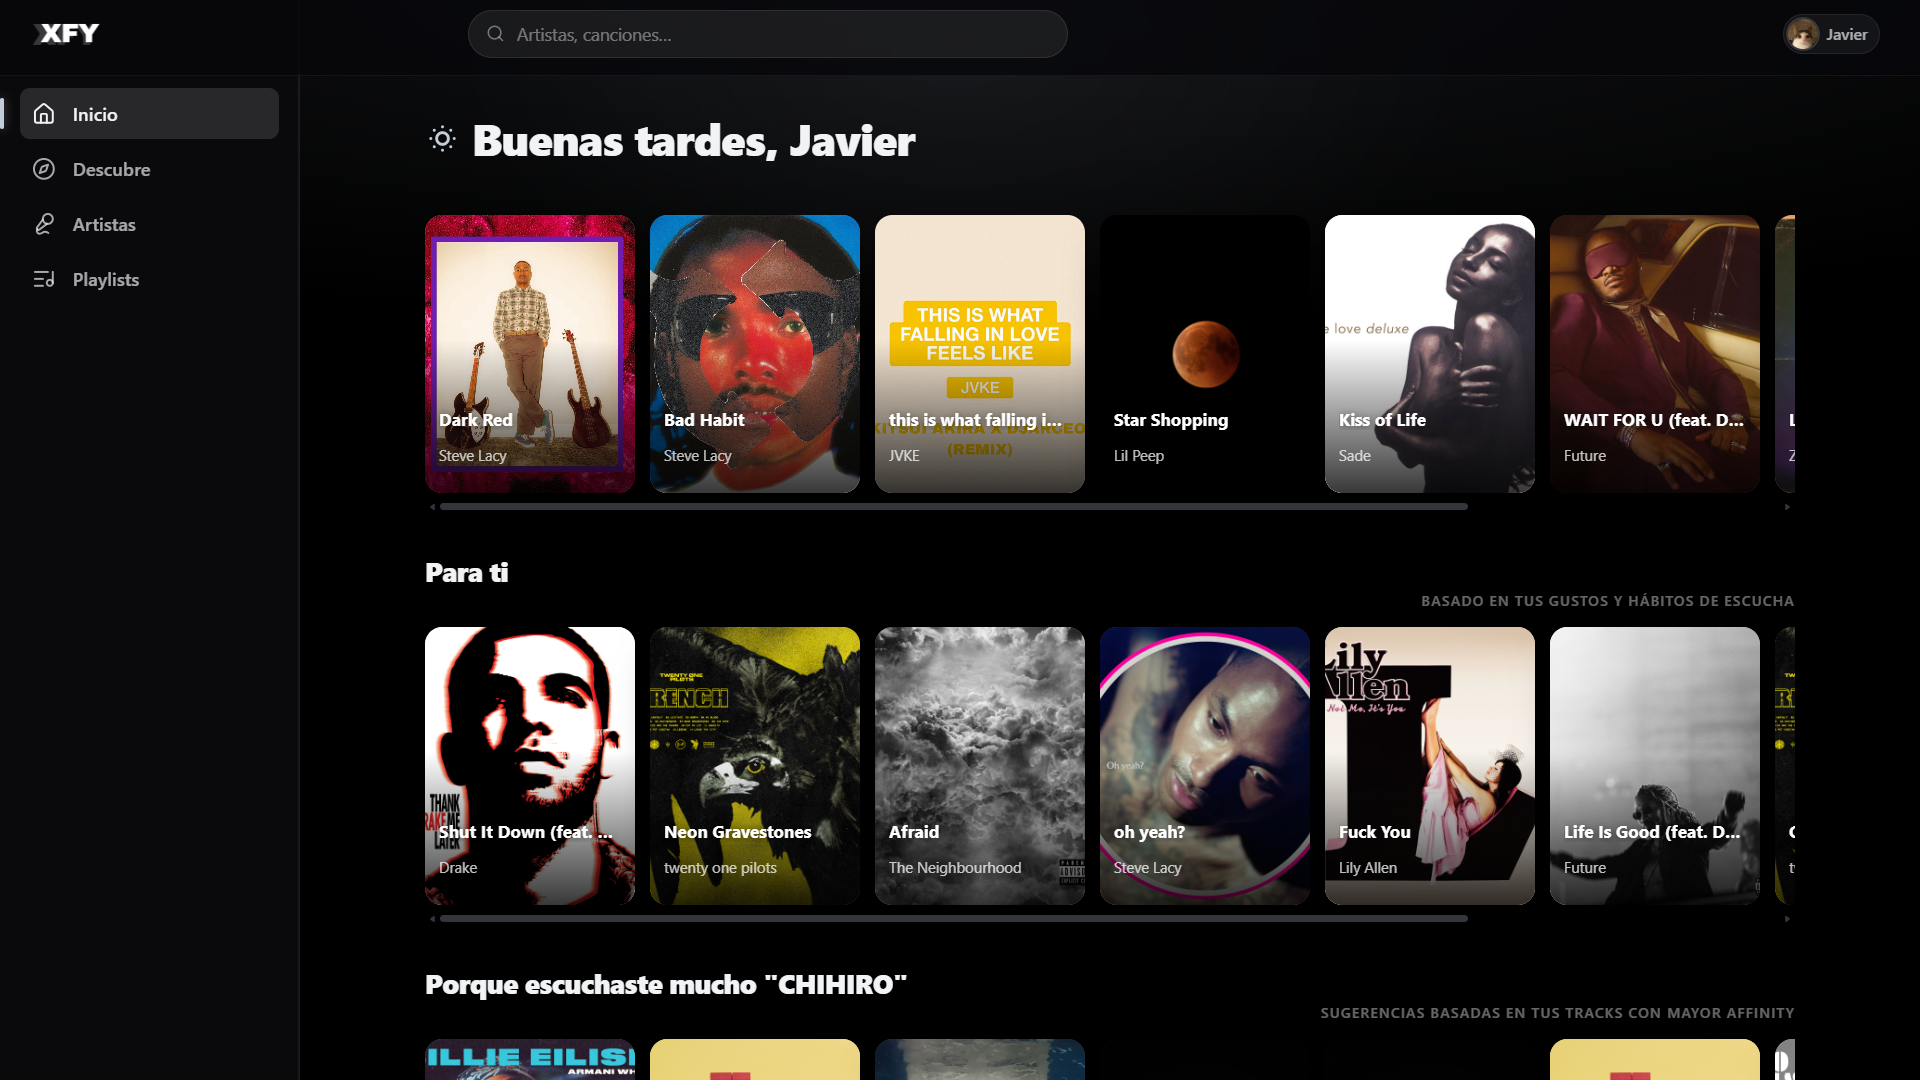
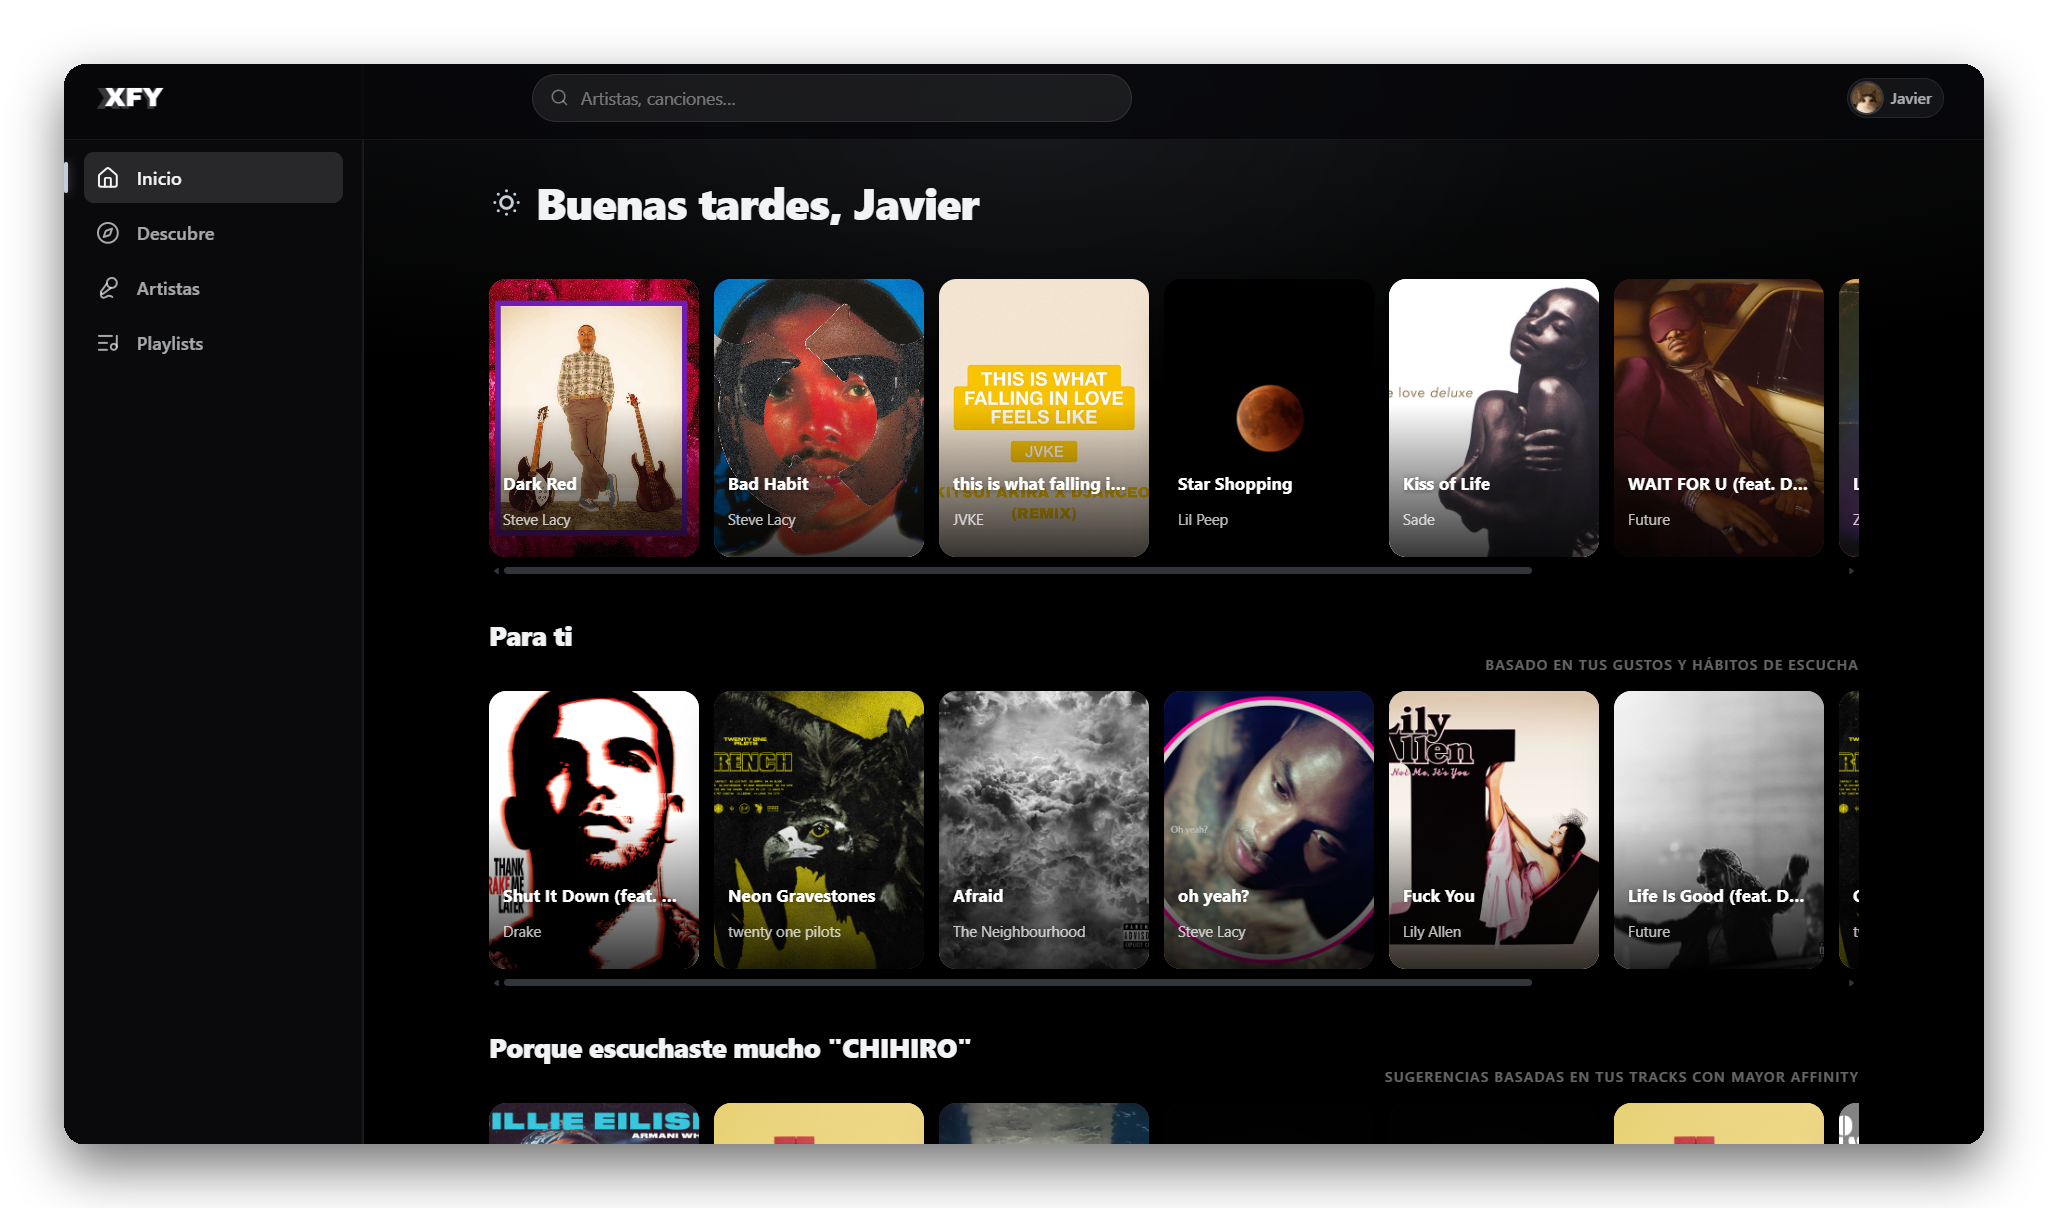
docs: pulir capturas (recorte, esquinas redondeadas, sombra) y layout lado a lado

diff --git a/README.md b/README.md
@@ -11,17 +11,10 @@ seguras y continuidad entre dispositivos.
 
 <br>
 
-<!--
-  Reemplazá estos paths por tus propias imágenes:
-    docs/screenshots/desktop.png
-    docs/screenshots/mobile.png
--->
-
 <p align="center">
-  <img src="docs/screenshots/desktop.png" alt="XFY en escritorio" width="78%">
-</p>
-<p align="center">
-  <img src="docs/screenshots/mobile.png" alt="XFY en móvil" width="24%">
+  <img src="docs/screenshots/desktop.png" alt="XFY en escritorio" width="56%">
+  &nbsp;&nbsp;
+  <img src="docs/screenshots/mobile.png" alt="XFY en móvil" width="17%">
 </p>
 
 <br>
